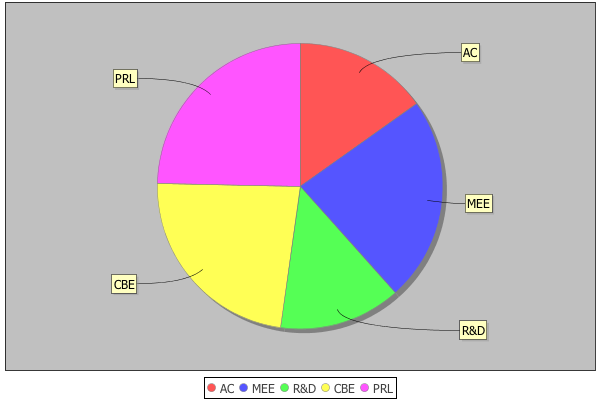
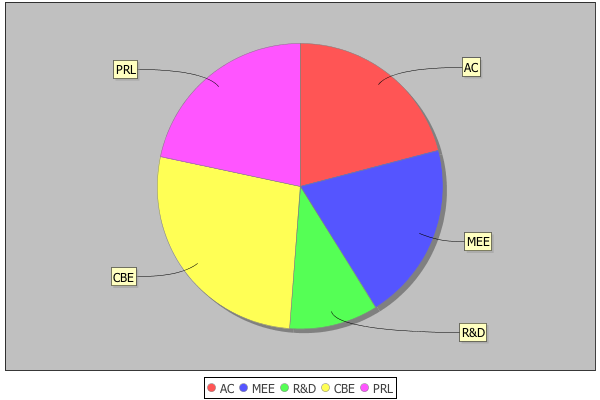
highchart works for synthese improvement courses and job sectors

diff --git a/src/main/webapp/js/high-chart.js b/src/main/webapp/js/high-chart.js
@@ -1,75 +1,79 @@
-$(document).ready(function() {
-	var inputs = document.getElementById('inputs');
+$(function () {
+    var chart;
+    $(document).ready(function() {
+    	generatePieChart('Ic');
+    	generatePieChart('Js');
+    });
+    
+});
+
+function generatePieChart(type) {
+	var chart;
+	var inputs;
+	var render;
+	var title;
+	if (type == 'Ic'){
+		inputs = document.getElementById('inputsIc');
+		render = 'containerPieChartIc';
+		title = "Parcours d'approfondissement";
+	}
+	else{
+		inputs = document.getElementById('inputsJs');
+		render = 'containerPieChartJs';
+		title = "Filières métier";
+	}
 	var elements = inputs.getElementsByTagName("input");
 	
 	var abbreviation = new Array();
 	var number = new Array();
+	var nameV = new Array();
 	for (var inputIndex = 0; inputIndex < elements.length; inputIndex++){
 		var input = elements[inputIndex];
 		var allValues = input.value;
 		abbreviation[inputIndex] = allValues.split(";")[0];
-		number[inputIndex] = parseInt(allValues.split(";")[1]);
+		number[inputIndex] = parseFloat(allValues.split(";")[1]);
+		nameV[inputIndex] = allValues.split(";")[2] + ";" + allValues.split(";")[0];
 	}
-});
+	
+	var dataV = new Array();
+	for (var inputIndex = 0; inputIndex < elements.length; inputIndex++){
+		dataV[inputIndex] = [nameV[inputIndex], number[inputIndex]];
+	}
 
-$(function () {
-    var chart;
-    $(document).ready(function() {
-    	var inputs = document.getElementById('inputs');
-    	var elements = inputs.getElementsByTagName("input");
-    	
-    	var abbreviation = new Array();
-    	var number = new Array();
-    	var nameV = new Array();
-    	for (var inputIndex = 0; inputIndex < elements.length; inputIndex++){
-    		var input = elements[inputIndex];
-    		var allValues = input.value;
-    		abbreviation[inputIndex] = allValues.split(";")[0];
-    		number[inputIndex] = parseFloat(allValues.split(";")[1]);
-    		nameV[inputIndex] = allValues.split(";")[2] + ";" + allValues.split(";")[0];
-    	}
-    	
-    	var dataV = new Array();
-    	for (var inputIndex = 0; inputIndex < elements.length; inputIndex++){
-    		dataV[inputIndex] = [nameV[inputIndex], number[inputIndex]];
-    	}
-
-        chart = new Highcharts.Chart({
-            chart: {
-                renderTo: 'container',
-                plotBackgroundColor: null,
-                plotBorderWidth: null,
-                plotShadow: false
-            },
-            title: {
-                text: "Parcours d'approfondissement"
-            },
-            tooltip: {
-            	formatter: function() {
-                    return '<b>' + this.point.name.split(";")[0] + '</b><br />Elèves : <b>' + this.point.y + '</b><br />' + 'Proportion : <b>' + Math.round(this.point.percentage*100)/100 + '</b>%<br />';
-                }
-            },
-            plotOptions: {
-                pie: {
-                    allowPointSelect: true,
-                    cursor: 'pointer',
-                    dataLabels: {
-                        enabled: true,
-                        color: '#000000',
-                        connectorColor: '#000000',
-                        formatter: function() {
-                            return '<b>'+ this.point.name.split(";")[1] +'</b>: '+ Math.round(this.percentage*100)/100 +' %';
-                        }
+    chart = new Highcharts.Chart({
+        chart: {
+            renderTo: render,
+            plotBackgroundColor: null,
+            plotBorderWidth: null,
+            plotShadow: false
+        },
+        title: {
+            text: title
+        },
+        tooltip: {
+        	formatter: function() {
+                return '<b>' + this.point.name.split(";")[0] + '</b><br />Elèves : <b>' + this.point.y + '</b><br />' + 'Proportion : <b>' + Math.round(this.point.percentage*100)/100 + '</b>%<br />';
+            }
+        },
+        plotOptions: {
+            pie: {
+                allowPointSelect: true,
+                cursor: 'pointer',
+                dataLabels: {
+                    enabled: true,
+                    color: '#000000',
+                    connectorColor: '#000000',
+                    formatter: function() {
+                        return '<b>'+ this.point.name.split(";")[1] +'</b>: '+ Math.round(this.percentage*100)/100 +' %';
                     }
                 }
-            },
-        	
-            series: [{
-                type: 'pie',
-                name: 'Percentage',
-                data: dataV
-            }]
-        });
+            }
+        },
+    	
+        series: [{
+            type: 'pie',
+            name: 'Percentage',
+            data: dataV
+        }]
     });
-    
-});
+}

diff --git a/src/main/java/fr/affectation/web/controller/AdminController.java b/src/main/java/fr/affectation/web/controller/AdminController.java
@@ -339,12 +339,13 @@ public class AdminController {
 
 	@RequestMapping("/statistics/synthese")
 	public String statisticsJs(Model model, HttpServletRequest request) {
-		String path = request.getSession().getServletContext().getRealPath("/");
-		statisticsService.generatePieChartJs(path);
-		statisticsService.generatePieChartIc(path);
-		statisticsService.generateBarChartIc(path);
-		statisticsService.generateBarChartJs(path);
-		model.addAttribute("theList", statisticsService.findSimpleIcStats());
+//		String path = request.getSession().getServletContext().getRealPath("/");
+//		statisticsService.generatePieChartJs(path);
+//		statisticsService.generatePieChartIc(path);
+//		statisticsService.generateBarChartIc(path);
+//		statisticsService.generateBarChartJs(path);
+		model.addAttribute("simpleImprovementCourses", statisticsService.findSimpleIcStats());
+		model.addAttribute("simpleJobSectors", statisticsService.findSimpleJsStats());
 		model.addAttribute("allIc", specializationService.findImprovementCourses());
 		model.addAttribute("allJs", specializationService.findJobSectors());
 		return "admin/statistics-synthese";

diff --git a/src/main/java/fr/affectation/service/statistics/StatisticsServiceImpl.java b/src/main/java/fr/affectation/service/statistics/StatisticsServiceImpl.java
@@ -143,19 +143,11 @@ public class StatisticsServiceImpl implements StatisticsService {
 	public List<SimpleSpecialization> findSimpleIcStats() {
 		Map<String, Integer> icMap = findIcStats();
 		List<SimpleSpecialization> specializations = new ArrayList<SimpleSpecialization>();
-		int sum = 0;
-		for (String abbreviation : icMap.keySet()){
-			sum += icMap.get(abbreviation);
-		}
 		for (String abbreviation : icMap.keySet()){
 			SimpleSpecialization specialization = new SimpleSpecialization();
 			specialization.setAbbreviation(abbreviation);
 			specialization.setName(specializationService.findNameFromIcAbbreviation(abbreviation));
 			specialization.setNumber(icMap.get(abbreviation));
-			float value = (float) icMap.get(abbreviation);
-			float value2 = (value/((float) sum));
-			specialization.setPercentage(Math.round(value2*100.0));
-			System.out.println("The value " + Math.round(value2*100.0));
 			specializations.add(specialization);
 		}
 		Collections.sort(specializations, new ComparatorSimpleSpecialization()); 

diff --git a/src/main/java/fr/affectation/domain/specialization/SimpleSpecialization.java b/src/main/java/fr/affectation/domain/specialization/SimpleSpecialization.java
@@ -8,20 +8,10 @@ public class SimpleSpecialization {
 
 	private int number;
 	
-	private double percentage;
-	
 	public SimpleSpecialization(String abbreviation, String name, int number){
 		this.abbreviation = abbreviation;
 		this.name = name;
 		this.number = number;
-	}
-
-	public double getPercentage() {
-		return percentage;
-	}
-
-	public void setPercentage(double percentage) {
-		this.percentage = percentage;
 	}
 
 	public SimpleSpecialization(){}
